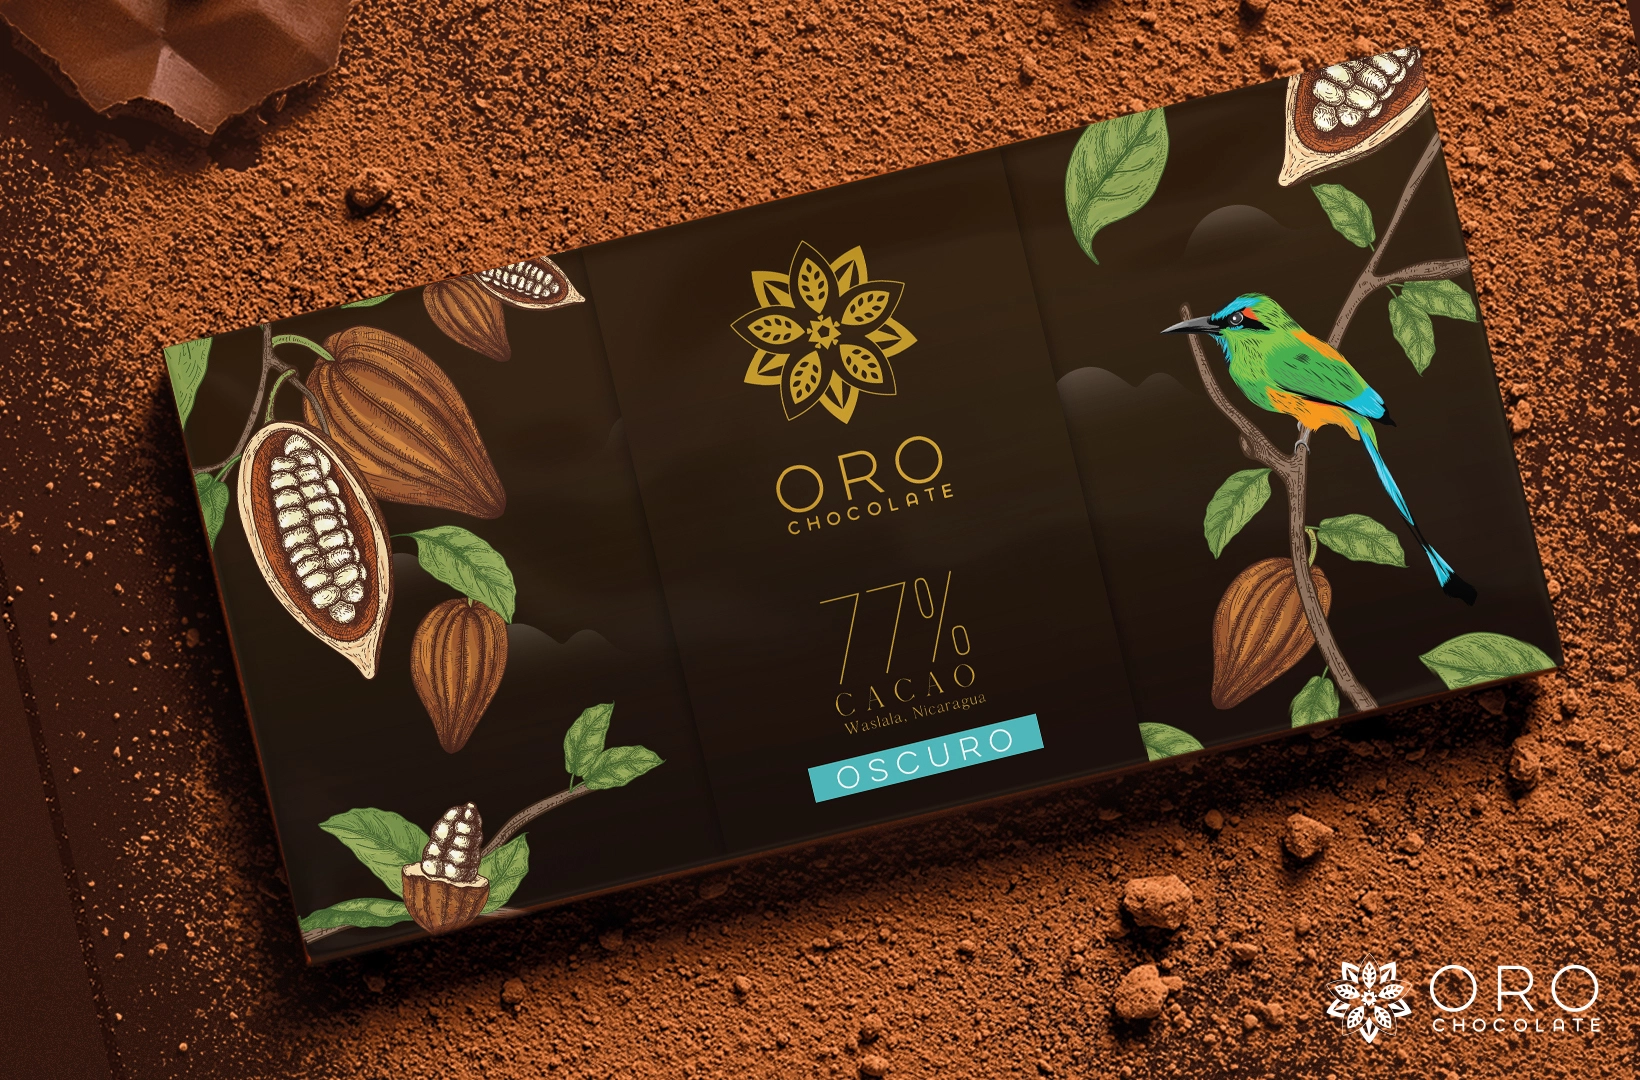
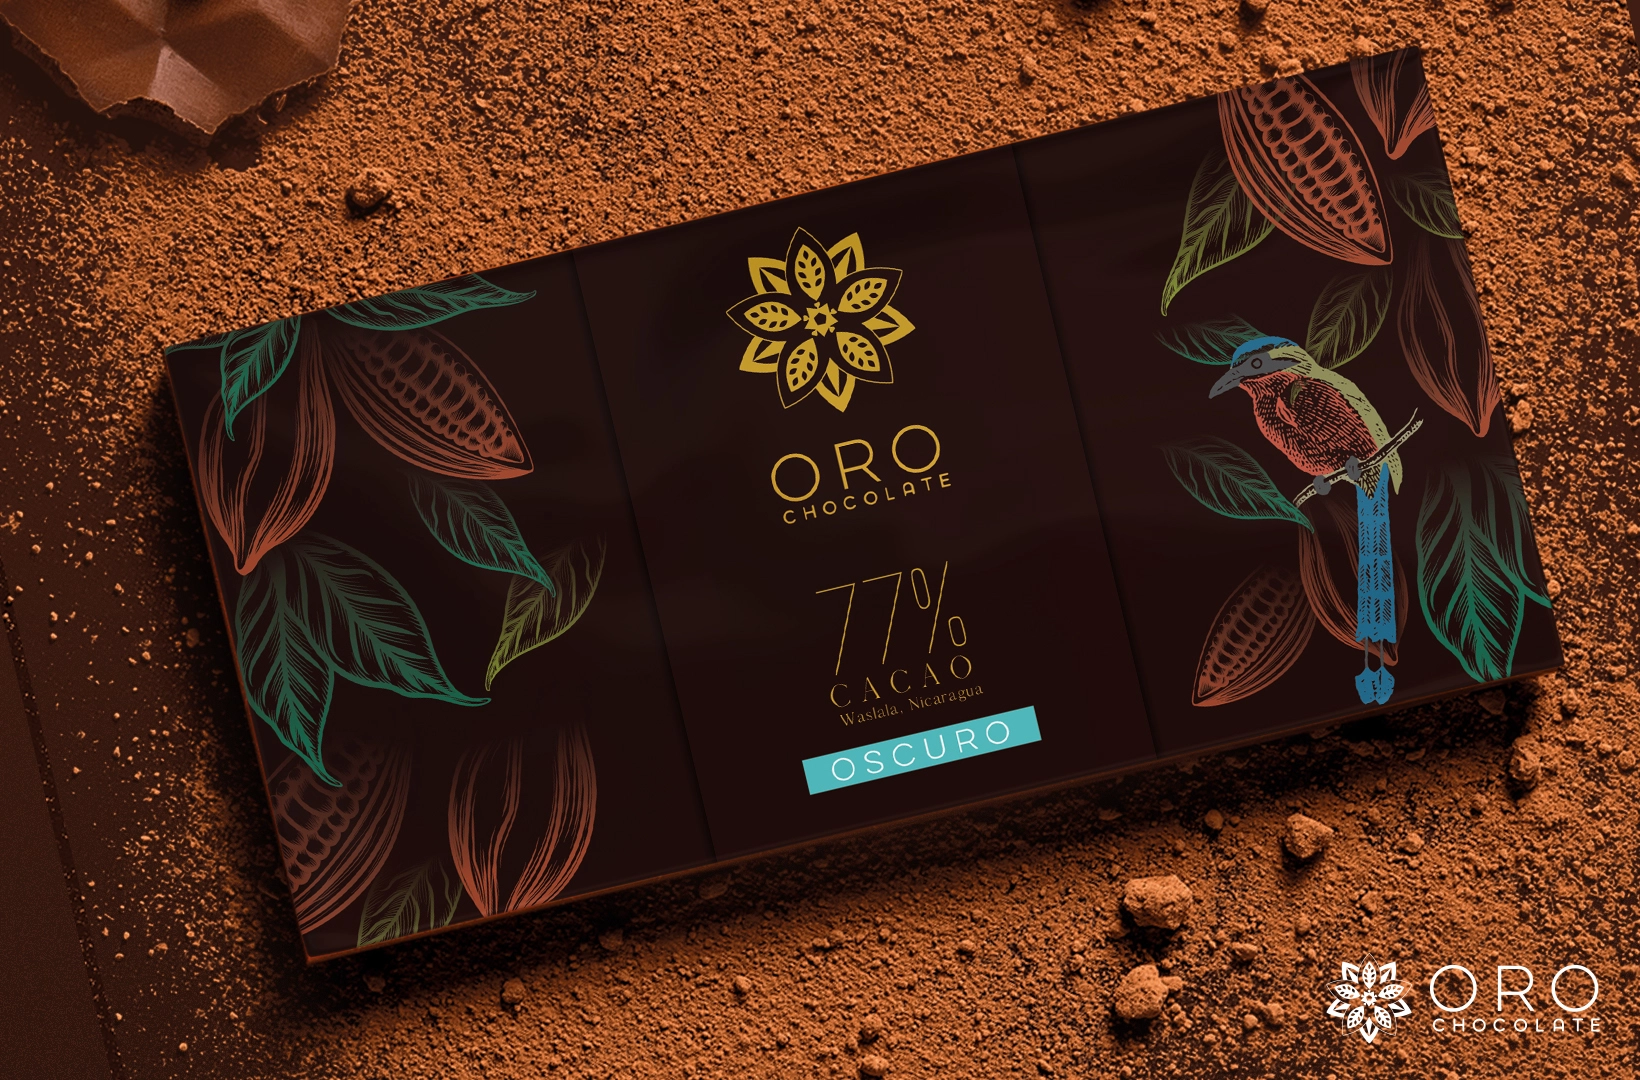
commit

diff --git a/oro3.html b/oro3.html
@@ -138,14 +138,14 @@
                         <div id="hero-styles">
                             <div id="hero-caption" class="content-full-width text-align-center parallax-scroll-caption">
                                 <div class="inner">   
-                                    <h1 class="hero-title caption-timeline primary-font-title"><span><em>ORO</em> Concept 1</span></h1>
+                                    <h1 class="hero-title caption-timeline primary-font-title"><span><em>ORO</em> Concept 2</span></h1>
                                     <div class="hero-arrow link caption-timeline"><span><i class="arrow-icon"></span></i></div>
                                 </div>
                             </div>
                             <div id="hero-description" class="content-max-width">
                                 <div class="inner">
                                 	<p class="bigger">About The Project</p>
-                                    <p class="has-opacity">Chocolate Packaging: Concept 1</p>
+                                    <p class="has-opacity">Chocolate Packaging: Concept 2</p>
                                     <br>
                                     <p class="bigger no-margins">Branding</p>
                                     <!-- <p class="has-opacity">May 2023</p>
@@ -174,7 +174,7 @@
                     </div>
                     <div id="hero-image-wrapper">
                     	<div id="hero-background-layer" class="parallax-scroll-image">
-                            <div id="hero-bg-image"><img src="images/ORO/Concept1/Cover.gif" alt="Image Title"></div>
+                            <div id="hero-bg-image" style="background-image:url(images/ORO/Concept2/Cover2.webp)"></div>
                         </div>
                     </div>                        
                     <!--/Hero Section -->   
@@ -188,7 +188,7 @@
                             <!-- Row -->
                             <div class="content-row row_padding_top light-section change-header-color text-align-center" data-bgcolor="#fff">
                             
-                                <h2 class="has-mask-fill block-title">Concept 1</h2>                                    
+                                <h2 class="has-mask-fill block-title">Concept 2</h2>                                    
                                 <!-- <p class="has-opacity">Unveil the Pinned Gallery: Scroll to Reveal</p> -->
                                 
                                 <hr><hr>
@@ -201,14 +201,11 @@
                             <div class="content-row text-align-center row_padding_bottom light-section change-header-color" data-bgcolor="#fff">
                                 
                                 <img src="images/ORO/Concept1/1.webp" alt="Image Title">
-                                <img style="margin-top: 10px;" src="images/ORO/Concept1/2.webp" alt="Image Title">
-                                <img style="margin-top: 10px;" src="images/ORO/Concept1/3.webp" alt="Image Title">
-                                <img style="margin-top: 10px;" src="images/ORO/Concept1/4.webp" alt="Image Title">
-                                <img style="margin-top: 10px;" src="images/ORO/Concept1/5.webp" alt="Image Title">
-                                <img style="margin-top: 10px;" src="images/ORO/Concept1/6.webp" alt="Image Title">
-                                <img style="margin-top: 10px;" src="images/ORO/Concept1/7.webp" alt="Image Title">
-                                <img style="margin-top: 10px;" src="images/ORO/Concept1/8.webp" alt="Image Title">
-                        
+                                <img style="margin-top: 10px;" src="images/ORO/Concept2/2.webp" alt="Image Title">
+                                <img style="margin-top: 10px;" src="images/ORO/Concept2/3.webp" alt="Image Title">
+                                <img style="margin-top: 10px;" src="images/ORO/Concept2/4.webp" alt="Image Title">
+                                <img style="margin-top: 10px;" src="images/ORO/Concept2/5.webp" alt="Image Title">
+                                
                                 <!-- <div class="pinned-gallery">
                                     <div class="pinned-image">
                                         <img src="images/projects/cast01.jpg" alt="Image Title">
@@ -251,10 +248,10 @@
                                 <div class="next-project-caption text-align-center content-max-width">
                                     <div class="next-caption-wrapper">
                                     	<div class="caption-wrapper">
-                                            <a class="next-ajax-link-project auto-trigger" data-type="page-transition" href="oro2.html" data-color="#963a8d" data-firstline="Next" data-secondline="Project"></a>
+                                            <a class="next-ajax-link-project auto-trigger" data-type="page-transition" href="project03.html" data-color="#963a8d" data-firstline="Next" data-secondline="Project"></a>
                                             <div class="next-caption"> 
                                                 <div class="next-hero-counter"><span>0</span></div>                                                                                           
-                                                <div class="next-hero-title primary-font-title"><span><em>ORO</em> Concept 2</span></div>
+                                                <div class="next-hero-title primary-font-title"><span><em>Urban</em> Edge</span></div>
                                                 <div class="next-hero-subtitle"><span>Next Project</span></div>                                        
                                             </div>
                                         </div>                                        
@@ -265,7 +262,7 @@
                                 
                                 <div class="next-project-image-wrapper">
                                     <div class="next-project-image">
-                                        <div class="next-project-image-bg" style="background-image:url(images/ORO/Concept2/Cover.webp)"></div>
+                                        <div class="next-project-image-bg" style="background-image:url(images/03hero.jpg)"></div>
                                     </div>            
                                 </div>
                                 

diff --git a/index.html b/index.html
@@ -126,11 +126,10 @@
                                     </li>
                                     <li class="link menu-timeline"><a class="ajax-link" data-type="page-transition" href="about.html"><div class="before-span"><span data-hover="About">About</span></div></a></li>
                                     <li class="link menu-timeline"><a class="ajax-link" data-type="page-transition" href="contact.html"><div class="before-span"><span data-hover="Contact">Contact</span></div></a></li>
-                                    <li class="link menu-timeline"><a class="" href="#"><div class="before-span"><span data-hover="More">More</span></div></a>
+                                    <li class="link menu-timeline"><a class="" href="#"><div class="before-span"><span data-hover="Glossary">Glossary</span></div></a>
                                         <ul>
-                                            <li><a class="ajax-link" href="typography.html" data-type="page-transition">Typography</a></li>                                         
-                                            <li><a class="ajax-link" href="multimedia.html" data-type="page-transition">Multimedia</a></li>
-                                            <li><a class="ajax-link" href="shortcodes.html" data-type="page-transition">Shortcodes</a></li>
+                                            <li><a class="ajax-link" href="Glossary-SolarSystem.html" data-type="page-transition">7 Princiles of Design</a></li>                                         
+                                    
                                         </ul>
                                     </li>
                                     <!-- <li class="link menu-timeline"><a class="buy-template" target="_blank" href="https://themeforest.net/item/manifesto-creative-portfolio-template/46416674"><div class="before-span"><span data-hover="Buy Now">Buy Now</span></div></a></li> -->
@@ -261,9 +260,9 @@
                                                     <div class="img-mask">
                                                         <a class="slide-link" data-type="page-transition" href="oro1.html"></a>
                                                         <div class="section-image trigger-item-link">
-                                                            <img src="images/ORO/Concept1/COVER1.webp" class="item-image grid__item-img" alt="">
+                                                            <img src="images/ORO/Concept1/Cover.gif" class="item-image grid__item-img" alt="">
                                                         </div>                                                
-                                                        <img src="images/ORO/Concept1/COVER1.webp" class="grid__item-img grid__item-img--large" alt="">                              
+                                                        <img src="images/ORO/Concept1/Cover.gif" class="grid__item-img grid__item-img--large" alt="">                              
                                                     </div>
                                                     <div class="slide-caption trigger-item-link-secondary">
                                                         <div class="slide-title"><span><em>Chocolate</em> Packaging</span></div>                                                    
@@ -279,9 +278,9 @@
                                                     <div class="img-mask">
                                                         <a class="slide-link" data-type="page-transition" href="oro2.html"></a>
                                                         <div class="section-image  trigger-item-link">
-                                                            <img src="images/ORO/Concept2/Cover2.webp" class="item-image grid__item-img" alt="">
+                                                            <img src="images/ORO/Concept2/Cover.webp" class="item-image grid__item-img" alt="">
                                                         </div>                                                
-                                                        <img src="images/ORO/Concept2/Cover2.webp" class="grid__item-img grid__item-img--large" alt="">                              
+                                                        <img src="images/ORO/Concept2/Cover.webp" class="grid__item-img grid__item-img--large" alt="">                              
                                                     </div>
                                                     <div class="slide-caption trigger-item-link-secondary">
                                                         <div class="slide-title"><span><em>Chocolate</em> Packaging</span></div>

diff --git a/oro2.html b/oro2.html
@@ -138,7 +138,7 @@
                         <div id="hero-styles">
                             <div id="hero-caption" class="content-full-width text-align-center parallax-scroll-caption">
                                 <div class="inner">   
-                                    <h1 class="hero-title caption-timeline primary-font-title"><span><em>ORO</em> Packaging</span></h1>
+                                    <h1 class="hero-title caption-timeline primary-font-title"><span><em>ORO</em> Concept 2</span></h1>
                                     <div class="hero-arrow link caption-timeline"><span><i class="arrow-icon"></span></i></div>
                                 </div>
                             </div>
@@ -174,7 +174,7 @@
                     </div>
                     <div id="hero-image-wrapper">
                     	<div id="hero-background-layer" class="parallax-scroll-image">
-                            <div id="hero-bg-image" style="background-image:url(images/ORO/Concept2/Cover2.webp)"></div>
+                            <div id="hero-bg-image" style="background-image:url(images/ORO/Concept2/Cover.webp)"></div>
                         </div>
                     </div>                        
                     <!--/Hero Section -->   
@@ -200,11 +200,12 @@
                             <!-- Row -->
                             <div class="content-row text-align-center row_padding_bottom light-section change-header-color" data-bgcolor="#fff">
                                 
-                                <img src="images/ORO/Concept1/1.webp" alt="Image Title">
+                                <img src="images/ORO/Concept2/1.webp" alt="Image Title">
                                 <img style="margin-top: 10px;" src="images/ORO/Concept2/2.webp" alt="Image Title">
                                 <img style="margin-top: 10px;" src="images/ORO/Concept2/3.webp" alt="Image Title">
                                 <img style="margin-top: 10px;" src="images/ORO/Concept2/4.webp" alt="Image Title">
                                 <img style="margin-top: 10px;" src="images/ORO/Concept2/5.webp" alt="Image Title">
+                                <img style="margin-top: 10px;" src="images/ORO/Concept2/6.webp" alt="Image Title">
                                 
                                 <!-- <div class="pinned-gallery">
                                     <div class="pinned-image">
@@ -248,10 +249,10 @@
                                 <div class="next-project-caption text-align-center content-max-width">
                                     <div class="next-caption-wrapper">
                                     	<div class="caption-wrapper">
-                                            <a class="next-ajax-link-project auto-trigger" data-type="page-transition" href="project03.html" data-color="#963a8d" data-firstline="Next" data-secondline="Project"></a>
+                                            <a class="next-ajax-link-project auto-trigger" data-type="page-transition" href="oro3.html" data-color="#963a8d" data-firstline="Next" data-secondline="Project"></a>
                                             <div class="next-caption"> 
                                                 <div class="next-hero-counter"><span>0</span></div>                                                                                           
-                                                <div class="next-hero-title primary-font-title"><span><em>Urban</em> Edge</span></div>
+                                                <div class="next-hero-title primary-font-title"><span><em>ORO</em> Concept 3</span></div>
                                                 <div class="next-hero-subtitle"><span>Next Project</span></div>                                        
                                             </div>
                                         </div>                                        
@@ -262,7 +263,7 @@
                                 
                                 <div class="next-project-image-wrapper">
                                     <div class="next-project-image">
-                                        <div class="next-project-image-bg" style="background-image:url(images/03hero.jpg)"></div>
+                                        <div class="next-project-image-bg" style="background-image:url(images/ORO/Concept3/)"></div>
                                     </div>            
                                 </div>
                                 

diff --git a/index-showcase-slider.html b/index-showcase-slider.html
@@ -163,6 +163,22 @@
                                                     </div>
                                                 </div>
                                             </div>
+
+                                            <div class="clapat-slide">
+                                            	<div class="slide-inner" data-centerLine="VIEW">
+                                                    <div class="slide-moving">
+                                                        <div class="trigger-item" data-centerLine="OPEN" data-index="0">
+                                                            <div class="img-mask">
+                                                                <a class="slide-link" data-type="page-transition" href="oro2.html"></a>
+                                                                <div class="section-image  trigger-item-link">
+                                                                    <img src="images/ORO/Concept2/Cover2.webp" class="item-image grid__item-img" alt="">
+                                                                </div>                                                
+                                                                <img src="images/ORO/Concept2/Cover2.webp" class="grid__item-img grid__item-img--large" alt="">                              
+                                                            </div>
+                                                        </div>
+                                                    </div>
+                                                </div>
+                                            </div>
                                             
                                             
                                         
@@ -178,14 +194,9 @@
                                                     <div class="clapat-sync-slider-wrapper">
                                                         <div class="clapat-sync-slider-viewport">
                                                             
-                                                            <div class="clapat-sync-slide content-full-width"><div class="slide-title primary-font-title"><span><em>Packaging</em> Concept 1</span></div></div>
-                                                            <div class="clapat-sync-slide content-full-width"><div class="slide-title primary-font-title"><span><em>Woolen</em> Craft</span></div></div>
-                                                            <div class="clapat-sync-slide content-full-width"><div class="slide-title primary-font-title"><span><em>Urban</em> Edge</span></div></div>
-                                                            <div class="clapat-sync-slide content-full-width"><div class="slide-title primary-font-title change-header"><span><em>The</em> Camarades</span></div></div>
-                                                            <div class="clapat-sync-slide content-full-width"><div class="slide-title primary-font-title"><span><em>Storm</em> Guard</span></div></div>
-                                                            <div class="clapat-sync-slide content-full-width"><div class="slide-title primary-font-title"><span><em>Heritage</em> Car Rides</span></div></div>
-                                                            <div class="clapat-sync-slide content-full-width"><div class="slide-title primary-font-title"><span><em>Serene</em> Sheets</span></div></div>
-                                                            <div class="clapat-sync-slide content-full-width"><div class="slide-title primary-font-title"><span><em>Rustic</em> Wonders</span></div></div>
+                                                            <div class="clapat-sync-slide content-full-width"><div class="slide-title primary-font-title"><span><em>ORO</em> Concept 1</span></div></div>
+                                                            <div class="clapat-sync-slide content-full-width"><div class="slide-title primary-font-title"><span><em>ORO</em> Concept 2</span></div></div>
+                                                            
                                                             
                                                         </div>
                                                     </div>
